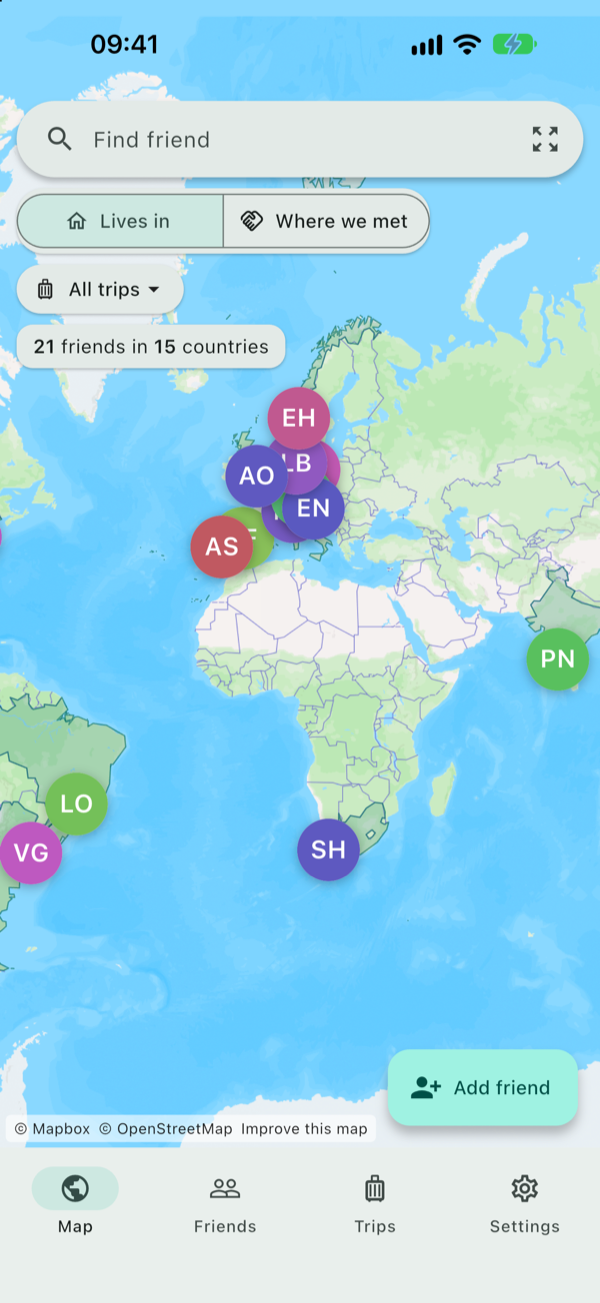
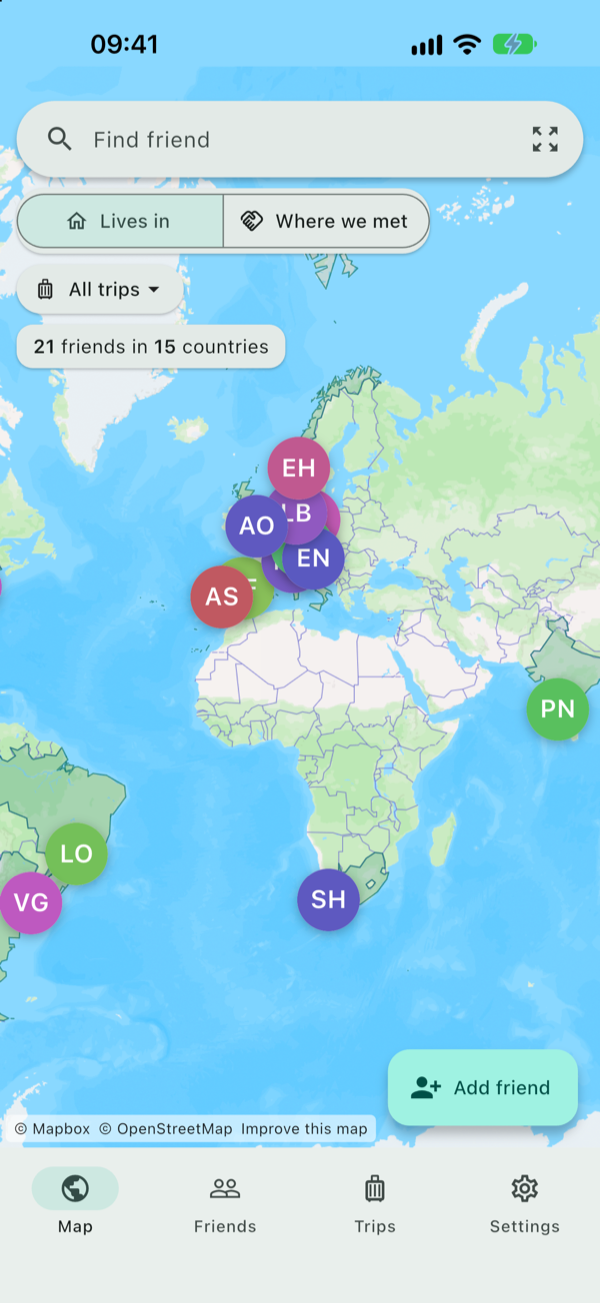
Map moved further down in hero and preview images

diff --git a/stay-in-touch-with-friends-from-abroad.html b/stay-in-touch-with-friends-from-abroad.html
@@ -11,7 +11,7 @@
   <meta property="og:title" content="How to stay in touch with friends you made abroad" />
   <meta property="og:description" content="How exchange students, expats and travelers can stay in touch with friends from abroad after going home: habits, contact details and keeping track of where everyone lives." />
   <meta property="og:url" content="https://met-app.github.io/stay-in-touch-with-friends-from-abroad.html" />
-  <meta property="og:image" content="https://met-app.github.io/assets/og.png?v=2026-11-14b" />
+  <meta property="og:image" content="https://met-app.github.io/assets/og.png?v=2026-11-14c" />
   <meta name="twitter:card" content="summary_large_image" />
   <meta name="apple-itunes-app" content="app-id=6829076218" />
   <link rel="icon" href="assets/logo.png" />
@@ -35,7 +35,7 @@
       "logo": "https://met-app.github.io/assets/logo.png"
     },
     "mainEntityOfPage": "https://met-app.github.io/stay-in-touch-with-friends-from-abroad.html",
-    "image": "https://met-app.github.io/assets/og.png?v=2026-11-14b"
+    "image": "https://met-app.github.io/assets/og.png?v=2026-11-14c"
   },
   {
     "@context": "https://schema.org",

diff --git a/keep-track-of-friends-around-the-world.html b/keep-track-of-friends-around-the-world.html
@@ -11,7 +11,7 @@
   <meta property="og:title" content="How to keep track of friends who live all over the world" />
   <meta property="og:description" content="Tips for keeping track of international friends in different countries and time zones: organizing them by place, remembering birthdays and staying in touch." />
   <meta property="og:url" content="https://met-app.github.io/keep-track-of-friends-around-the-world.html" />
-  <meta property="og:image" content="https://met-app.github.io/assets/og.png?v=2026-11-14b" />
+  <meta property="og:image" content="https://met-app.github.io/assets/og.png?v=2026-11-14c" />
   <meta name="twitter:card" content="summary_large_image" />
   <meta name="apple-itunes-app" content="app-id=6829076218" />
   <link rel="icon" href="assets/logo.png" />
@@ -35,7 +35,7 @@
       "logo": "https://met-app.github.io/assets/logo.png"
     },
     "mainEntityOfPage": "https://met-app.github.io/keep-track-of-friends-around-the-world.html",
-    "image": "https://met-app.github.io/assets/og.png?v=2026-11-14b"
+    "image": "https://met-app.github.io/assets/og.png?v=2026-11-14c"
   },
   {
     "@context": "https://schema.org",

diff --git a/remember-people-you-meet-while-traveling.html b/remember-people-you-meet-while-traveling.html
@@ -11,7 +11,7 @@
   <meta property="og:title" content="How to remember the people you meet while traveling" />
   <meta property="og:description" content="Practical ways to remember the people you meet on trips, at hostels and festivals: what to write down, when to do it, and how to keep it all on a map." />
   <meta property="og:url" content="https://met-app.github.io/remember-people-you-meet-while-traveling.html" />
-  <meta property="og:image" content="https://met-app.github.io/assets/og.png?v=2026-11-14b" />
+  <meta property="og:image" content="https://met-app.github.io/assets/og.png?v=2026-11-14c" />
   <meta name="twitter:card" content="summary_large_image" />
   <meta name="apple-itunes-app" content="app-id=6829076218" />
   <link rel="icon" href="assets/logo.png" />
@@ -35,7 +35,7 @@
       "logo": "https://met-app.github.io/assets/logo.png"
     },
     "mainEntityOfPage": "https://met-app.github.io/remember-people-you-meet-while-traveling.html",
-    "image": "https://met-app.github.io/assets/og.png?v=2026-11-14b"
+    "image": "https://met-app.github.io/assets/og.png?v=2026-11-14c"
   },
   {
     "@context": "https://schema.org",

diff --git a/map-of-where-your-friends-live.html b/map-of-where-your-friends-live.html
@@ -11,7 +11,7 @@
   <meta property="og:title" content="How to make a map of where all your friends live" />
   <meta property="og:description" content="Ways to make a map of your friends around the world, from spreadsheets and Google My Maps to an app built for it, and what to include for each friend." />
   <meta property="og:url" content="https://met-app.github.io/map-of-where-your-friends-live.html" />
-  <meta property="og:image" content="https://met-app.github.io/assets/og.png?v=2026-11-14b" />
+  <meta property="og:image" content="https://met-app.github.io/assets/og.png?v=2026-11-14c" />
   <meta name="twitter:card" content="summary_large_image" />
   <meta name="apple-itunes-app" content="app-id=6829076218" />
   <link rel="icon" href="assets/logo.png" />
@@ -35,7 +35,7 @@
       "logo": "https://met-app.github.io/assets/logo.png"
     },
     "mainEntityOfPage": "https://met-app.github.io/map-of-where-your-friends-live.html",
-    "image": "https://met-app.github.io/assets/og.png?v=2026-11-14b"
+    "image": "https://met-app.github.io/assets/og.png?v=2026-11-14c"
   },
   {
     "@context": "https://schema.org",

diff --git a/index.html b/index.html
@@ -14,7 +14,7 @@
   <meta property="og:title" content="MET - Your friends around the world" />
   <meta property="og:description" content="See where in the world your friends live. Pin friends on a map, remember where you met, and keep their details in one place." />
   <meta property="og:url" content="https://met-app.github.io/" />
-  <meta property="og:image" content="https://met-app.github.io/assets/og.png?v=2026-11-14b" />
+  <meta property="og:image" content="https://met-app.github.io/assets/og.png?v=2026-11-14c" />
   <meta name="twitter:card" content="summary_large_image" />
   <meta name="apple-itunes-app" content="app-id=6829076218" />
   <script type="application/ld+json">
@@ -99,7 +99,7 @@
         <p class="badge-note">Free on iPhone and Android.</p>
       </div>
       <div class="phone">
-        <img src="assets/hero.png?v=2026-11-14b" alt="MET showing a world map with friends pinned in the cities they live in" />
+        <img src="assets/hero.png?v=2026-11-14c" alt="MET showing a world map with friends pinned in the cities they live in" />
       </div>
     </div>
   </section>

diff --git a/features.html b/features.html
@@ -11,7 +11,7 @@
   <meta property="og:title" content="MET features: a map of your friends around the world" />
   <meta property="og:description" content="Everything MET does: a world map of where your friends live, trips, profiles with how you met, their local time, birthdays and contacts, QR code profiles, search, and iCloud or Google Drive sync." />
   <meta property="og:url" content="https://met-app.github.io/features.html" />
-  <meta property="og:image" content="https://met-app.github.io/assets/og.png?v=2026-11-14b" />
+  <meta property="og:image" content="https://met-app.github.io/assets/og.png?v=2026-11-14c" />
   <meta name="twitter:card" content="summary_large_image" />
   <meta name="apple-itunes-app" content="app-id=6829076218" />
   <link rel="icon" href="assets/logo.png" />

diff --git a/guides.html b/guides.html
@@ -11,7 +11,7 @@
   <meta property="og:title" content="MET guides: keeping track of friends around the world" />
   <meta property="og:description" content="Guides on remembering people you meet while traveling, mapping where your friends live and staying in touch with friends abroad." />
   <meta property="og:url" content="https://met-app.github.io/guides.html" />
-  <meta property="og:image" content="https://met-app.github.io/assets/og.png?v=2026-11-14b" />
+  <meta property="og:image" content="https://met-app.github.io/assets/og.png?v=2026-11-14c" />
   <meta name="twitter:card" content="summary_large_image" />
   <meta name="apple-itunes-app" content="app-id=6829076218" />
   <link rel="icon" href="assets/logo.png" />

diff --git a/faq.html b/faq.html
@@ -11,7 +11,7 @@
   <meta property="og:title" content="MET FAQ: questions about the friends map app" />
   <meta property="og:description" content="Answers about MET: is it free, does it track location, how QR code profiles work, where data is stored, sync, backups and Premium." />
   <meta property="og:url" content="https://met-app.github.io/faq.html" />
-  <meta property="og:image" content="https://met-app.github.io/assets/og.png?v=2026-11-14b" />
+  <meta property="og:image" content="https://met-app.github.io/assets/og.png?v=2026-11-14c" />
   <meta name="twitter:card" content="summary_large_image" />
   <meta name="apple-itunes-app" content="app-id=6829076218" />
   <link rel="icon" href="assets/logo.png" />
